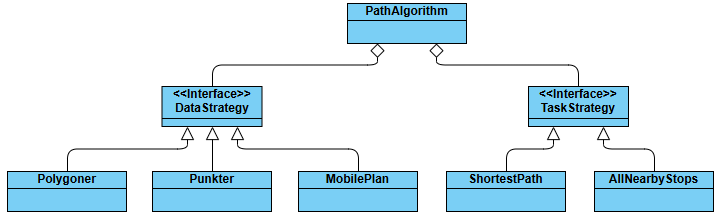
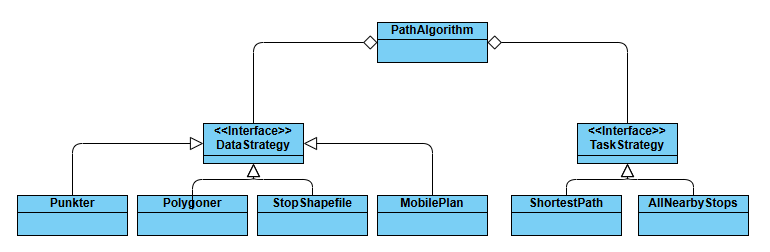
Opdateret readme og UML

diff --git a/README.md b/README.md
@@ -28,10 +28,10 @@ Nye opgaver vedrørende afstande på vejnettet kan (relativt) nemt implementeres
     * Indlæs fil og transformer den således at den som minimum har følgende kolonner:
         * geometry: punkt geometri.
         * stop_code: unikt id.
-        * stop_name: stop navn, kan efterlades som None hvis ikke det er relevant.
+        * stop_name: stop navn, værdier kan efterlades som None hvis ikke det er relevant.
     * Filtyper:
         * MobilePlan csv fil med kolonnerne: UTM32_Easting, UTM32_Northing, Long name, Kode til stoppunkt og Pos.nr.
-        * Shapefil med stopnummer, stopnavn og geometri.
+        * Shapefil med stopnummer, stopnavn og geometri. Kolonnenavne kan være vilkårlige så programmet spørger efter deres navne.
 * Dobbeltrettet OSM netværk af typen ”all” hentes automatisk. Inkluderer alle typer veje og stier indenfor det administrative område.
 
 <br/>
@@ -41,6 +41,7 @@ Nye opgaver vedrørende afstande på vejnettet kan (relativt) nemt implementeres
 # Procedure
 * Første gang køres setup.py. Efterfølgende springes dette trin over.
 * Placer data i mappen **src/Data**.
+    * Bemærk stoppestedsgeometrier skal være af typen Point da hvert individuelle stoppested skal være tilstede. MultiPoint kam laves til Point med multipart til singlepart.
 * Åben og kør **run.py**.
 * Indtast inputs. Valgmuligheder er (...) og default værdi er [...].
     * Ethvert administrative OSM område kan anvendes.
